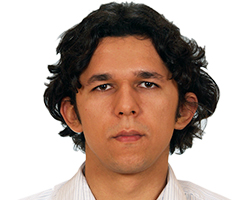
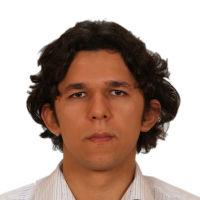
team fixes

diff --git a/assets/css/style.css b/assets/css/style.css
@@ -1275,30 +1275,15 @@
 	h2.team {
 	}
 
-	/* TODO problem with circular border in TEAM
-	it used to work in commit 08b47f6ce24a297e79d6b9aa13985b89db694f85
-	now it looks like that:
-	A when team photo is called by <div class="image-team-around team-kierysz"></div> border-radius won't work,
-	A in that case the border is drawn around the whole div dimensions, not on 200x200x background picture called by team-kierysz (we try to call border-radius twice on the same div)
-		OR
-	B when the team photo is called by <div class="white-for-image-team"><figure class="teamPhoto team-matamoros"></figure></div>
-	B the border-radius works correctly on every object, but in that case I can't center the photo in the parent div.
-
-	white-for-image-team and image-team-around share atributes and are similar, but I can't find what moves the nested object to the right
-	*/
-
-
 
 .teamPhoto{
 	height: 100%;
 	width: auto;
 	display: block;
-	/* !* TODO added height 100% and width auto instead of commented lines - it should properly center the photos in parent div. *!
-	!*	width: 80%;
-	height: 94%;
-	margin-left: 10%;
-	margin-top: 2%;*!
-	display: block;*/
+	/*width: 80%;*/
+	/*height: 94%;*/
+	/*margin-left: 10%;*/
+	/*margin-top: 2%;*/
 }
 
 
@@ -1342,12 +1327,14 @@
 .white-for-image-team .image-team-around {
 	height: 100%;
 	width: auto;
-	/* TODO added height 100% and width auto instead of commented lines - it should properly center the photos in parent div. */
-	/*	width: 80%;
+	width: 80%;
 	height: 94%;
 	margin-left: 10%;
-	margin-top: 2%;*/
-
+	margin-top: 2%;
+	border: none;
+	-webkit-border-radius: 100px;
+	-moz-border-radius: 100px;
+	border-radius: 100px;
 }
 .team-marek-janiec {
 	background: url(../images/team/200x200/MAREK.jpg) no-repeat center;
@@ -1356,10 +1343,6 @@
 .team-matamoros {
 	background: url(../images/team/200x200/ANTONIO.jpg) no-repeat center;
 	background-size: 200px 200px;
-	border: none;
-	-webkit-border-radius: 100px;
-	-moz-border-radius: 100px;
-	border-radius: 100px;;
 }
 .team-szklarz {
 	background: url(../images/team/200x200/PAWEL.jpg) no-repeat center;

diff --git a/team.html b/team.html
@@ -20,7 +20,7 @@ layout: info
                             </div>
                             <div class="col-lg-8 color-cut-team"></div>
                             <div class="col-lg-8 white-for-image-team">
-                                <div class="white-for-image-team"><figure class="teamPhoto team-matamoros"></figure></div>
+                                <div class="image-team-around team-matamoros"></div>
                             </div>
                         </div>
                     </div>
